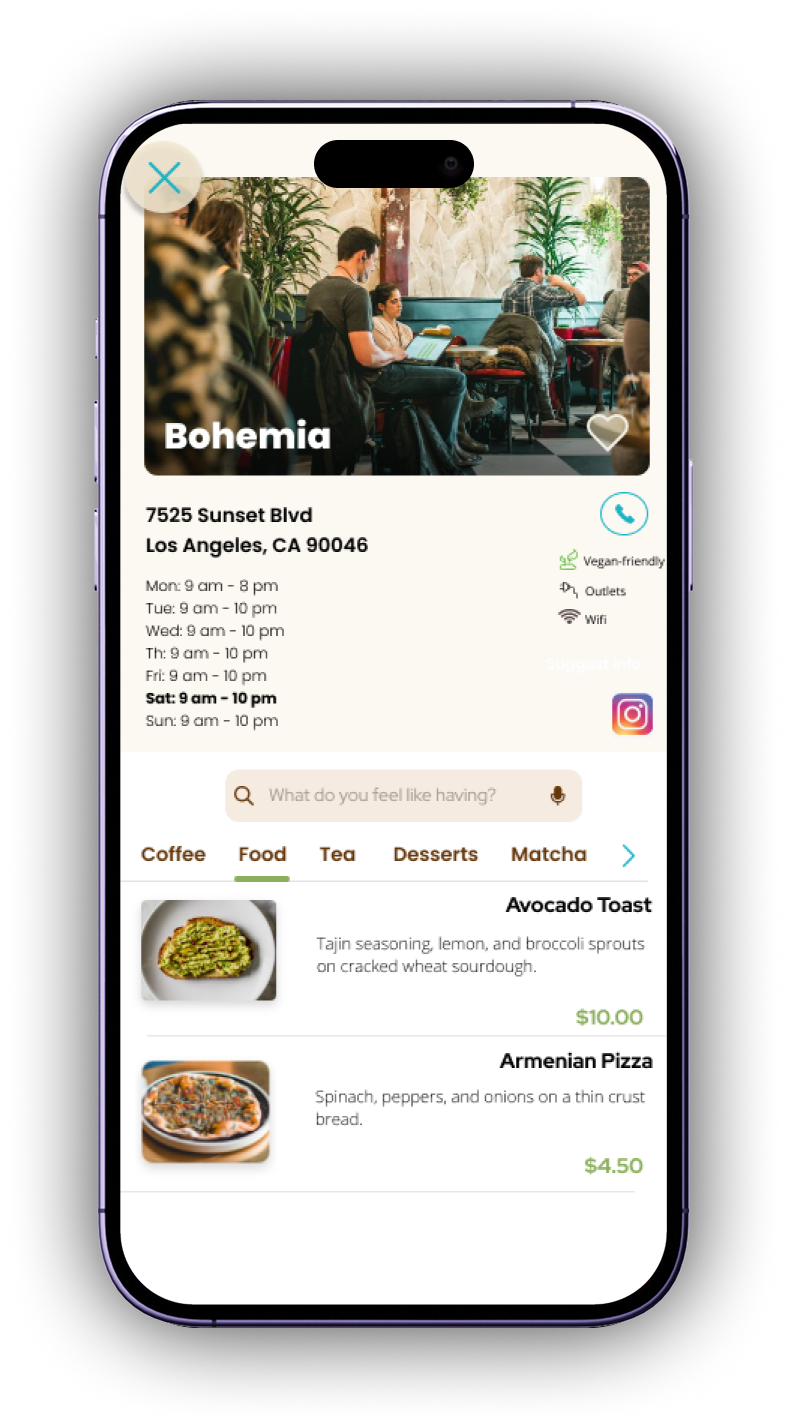
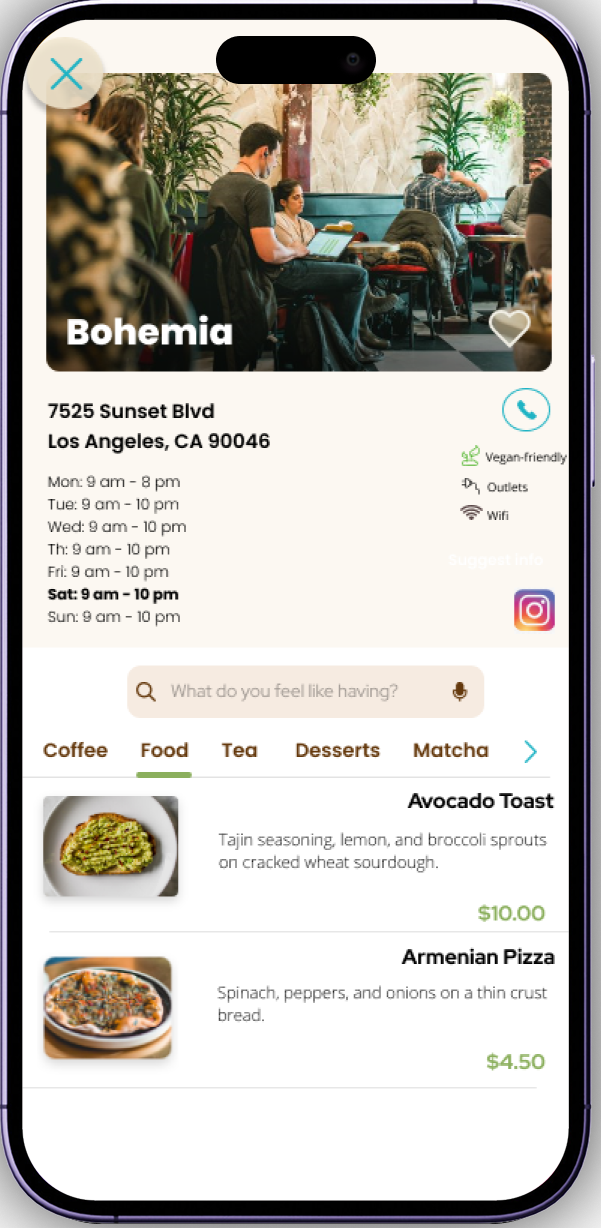
Add Retrocodex cover gif with letterbox effect on homepage
Widescreen gif (1440x636) sits centered in the existing 4:3 card via
object-fit: contain, with a black background filling the box to create
letterbox bars above/below rather than cropping or resizing the card.

diff --git a/index.html b/index.html
@@ -52,8 +52,8 @@
 
     <div>
       <a href="case-studies/retrocodex.html" target="_blank" rel="noopener noreferrer">
-        <div class="ph">
-          <span class="ph-label">Retrocodex — 560 × 420</span>
+        <div class="ph ph--letterbox">
+          <img class="ph-fit" src="assets/images/retrocodex-cover-1.gif" alt="Retrocodex">
           <div class="badge-row">
             <span class="badge"><i data-lucide="globe"></i>Web app</span>
             <span class="badge"><i data-lucide="users-round"></i>Publicly available</span>

diff --git a/css/style.css b/css/style.css
@@ -266,6 +266,15 @@ body {
   display: block;
 }
 
+.ph--letterbox { background: #000; background-image: none; }
+.ph-fit {
+  width: 100%;
+  height: 100%;
+  object-fit: contain;
+  border-radius: 10px;
+  display: block;
+}
+
 /* Dark backdrop for project cards showing app-screen covers */
 .ph--dark {
   background: #1C1C24;
